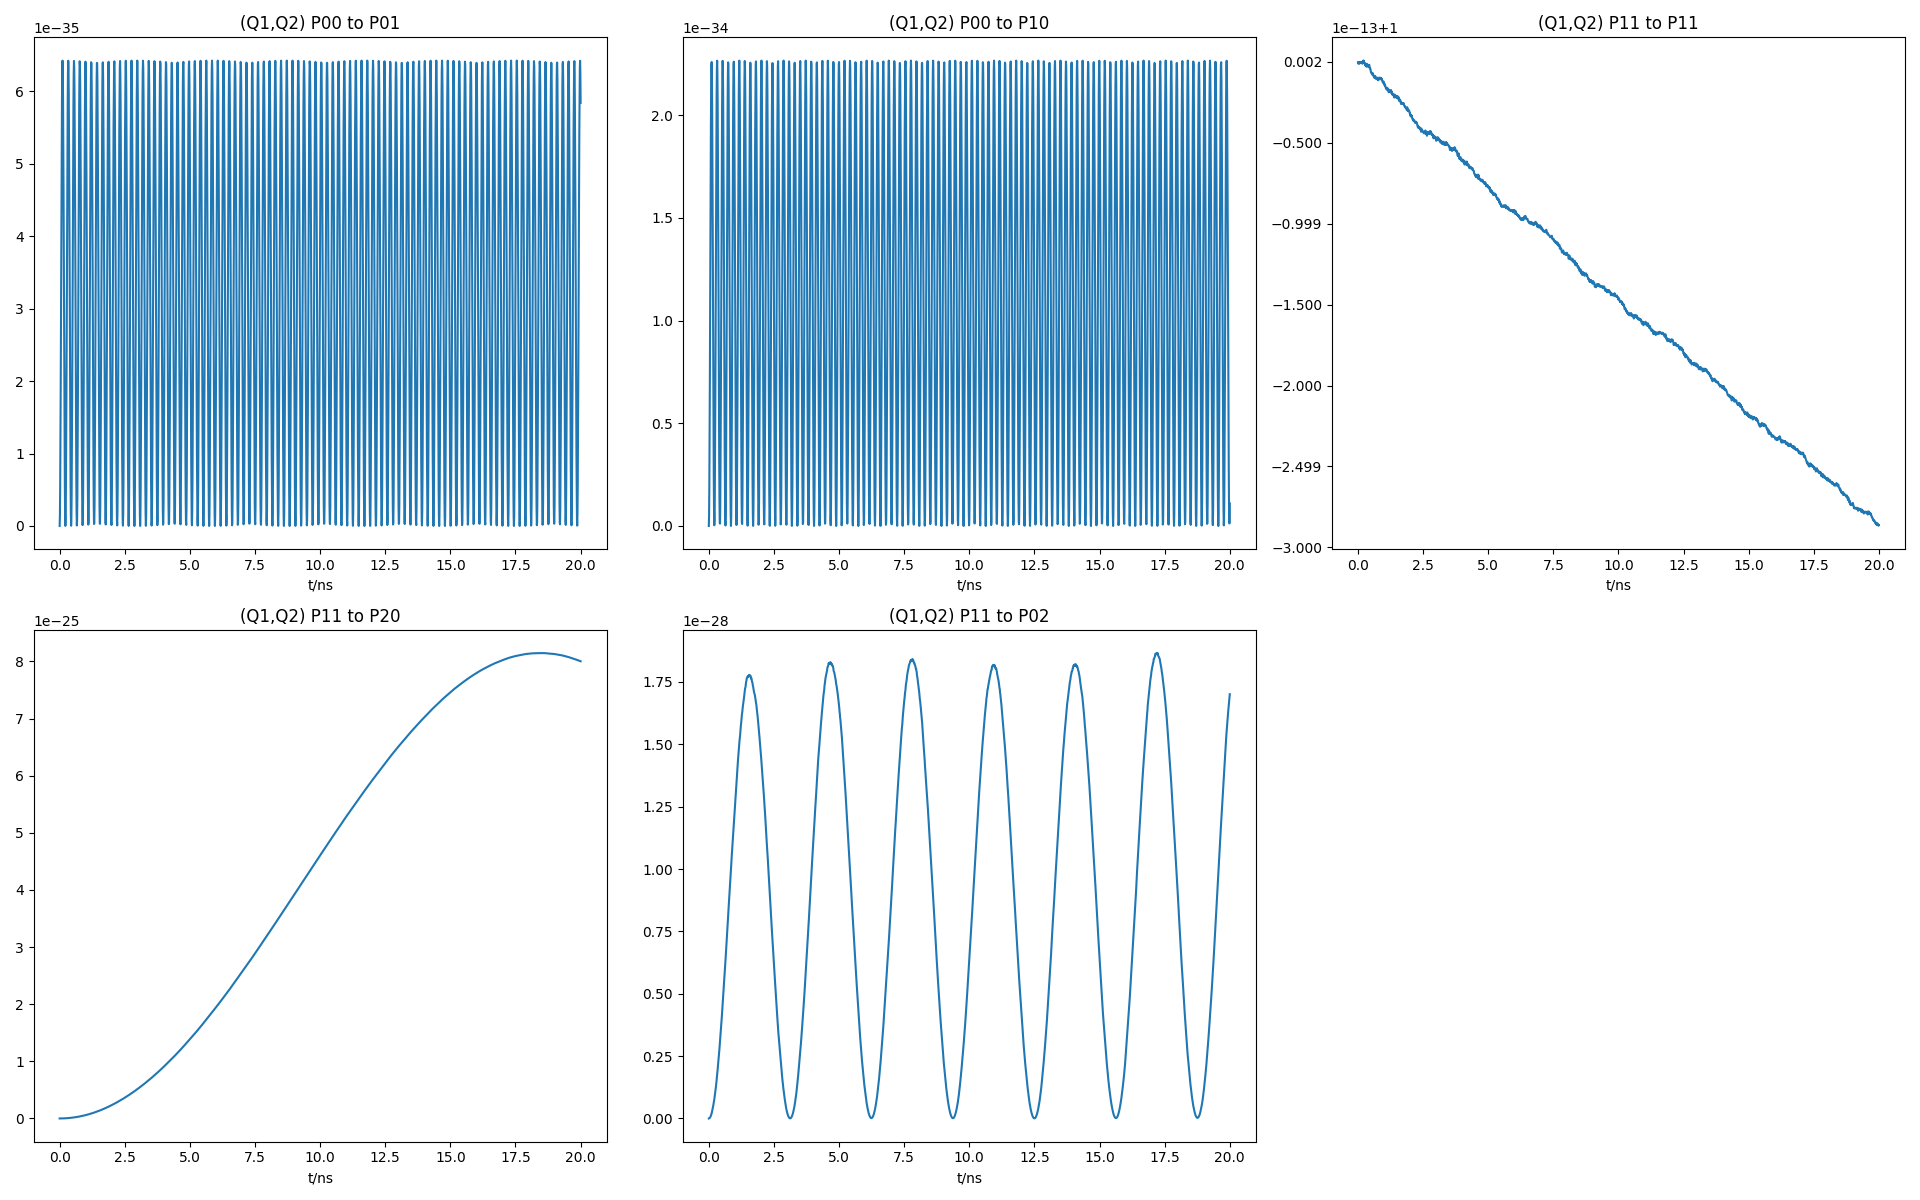
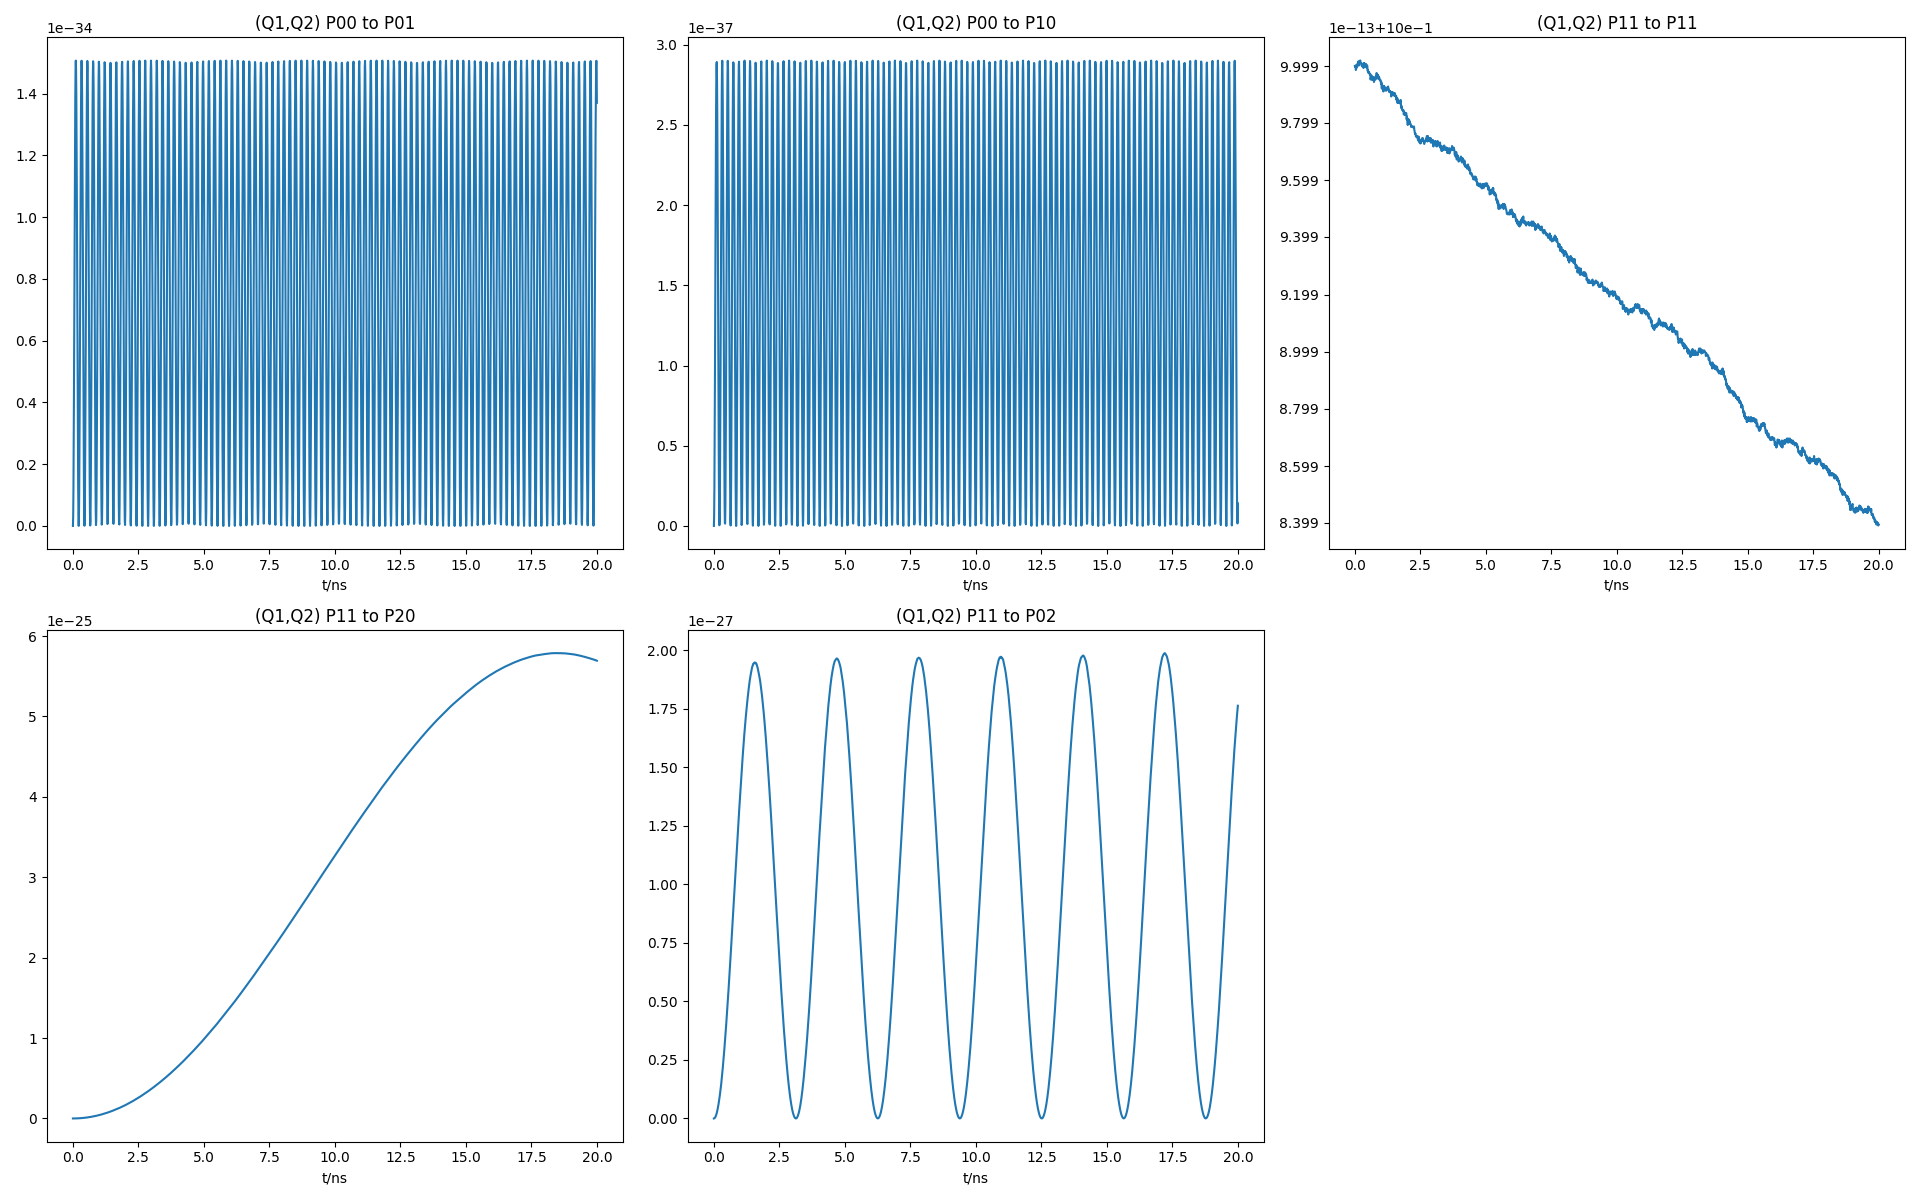
1.0

diff --git a/X2PQ1_X2PQ2.py b/X2PQ1_X2PQ2.py
@@ -1,7 +1,5 @@
 import numpy as np
 import QubitSim.model
-import QubitSim.constant as ct
-from matplotlib import pyplot as plt
 
 # 0.Build a quantum circuit.
 circuit = QubitSim.model.Circuit()
@@ -77,59 +75,17 @@ circuit.t_piece = 1E-11
 circuit.operator_order_num = 4
 circuit.trigonometric_function_expand_order_num = 8
 circuit.exponent_function_expand_order_num = 15
-circuit.picture_filename = "idleQ1_X2PQ2.png"
-circuit.npy_filename = "idleQ1_X2PQ2.npy"
+circuit.picture_filename = "X2PQ1_X2PQ2.png"
+circuit.npy_filename = "X2PQ1_X2PQ2.npy"
 circuit.initial()
 # ====================================================================
 # 2.Setting signals.
-Amplitude = 0.0038
+Amplitude1 = 0.00365
+Amplitude2 = 0.00380
+f01_Q1 = 4.7035E9
 f01_Q2 = 4.5299E9
-t_delay = 0E-9
-Envolope = np.zeros(len(circuit.t_list))
-phi = np.pi-0.3356
-for i in range(len(circuit.t_list)):
-    if circuit.t_list[i] < t_delay:
-        Envolope[i] = 0.0
-    else:
-        Envolope[i] = 1-np.cos(2*np.pi*(circuit.t_list[i] -
-                               t_delay)/(circuit.t_end-t_delay-circuit.t_start))
-circuit.signal_2 = Amplitude*Envolope*np.cos(2*np.pi*f01_Q2*circuit.t_list+phi)
-plt.figure()
-plt.plot(circuit.t_list*1E9, circuit.signal_2)
-plt.title("signal_2")
-plt.xlabel("t/ns")
-plt.tight_layout()
-plt.savefig(fname="idleQ1_X2PQ2_signal.png")
+Envolope = 1-np.cos(2*np.pi*circuit.t_list/(circuit.t_end-circuit.t_start))
+circuit.signal_1 = Amplitude1*Envolope*np.cos(2*np.pi*f01_Q1*circuit.t_list)
+circuit.signal_2 = Amplitude2*Envolope*np.cos(2*np.pi*f01_Q2*circuit.t_list)
 # 3.Run.
 circuit.run()
-# 4.Matrix display
-idleQ1_X2PQ2_matrix = np.load(circuit.npy_filename)
-print("\nidleQ1_X2PQ2_matrix:")
-for i in range(4):
-    for j in range(4):
-        print("%.4f" % np.abs(idleQ1_X2PQ2_matrix[i][j]), end='_')
-        print("%.4f" % np.angle(idleQ1_X2PQ2_matrix[i][j]), end=',')
-    print()
-
-X2PQ2_matrix = np.zeros([2, 2], dtype=complex)
-X2PQ2_matrix[0][0] = idleQ1_X2PQ2_matrix[0][0]
-X2PQ2_matrix[0][1] = idleQ1_X2PQ2_matrix[0][1]
-X2PQ2_matrix[1][0] = idleQ1_X2PQ2_matrix[1][0]
-X2PQ2_matrix[1][1] = idleQ1_X2PQ2_matrix[1][1]
-print("\nX2PQ2_matrix:")
-print(X2PQ2_matrix)
-
-theta_g = (np.angle(X2PQ2_matrix[0][0])+np.angle(X2PQ2_matrix[1][1]))/2.0
-phi = 2*np.arccos(np.real(X2PQ2_matrix[0][0]/np.exp(complex(0, 1)*theta_g)))
-nx = np.imag(X2PQ2_matrix[0][1] /
-             np.exp(complex(0, 1)*theta_g))/(-1)/np.sin(phi/2)
-ny = np.real(X2PQ2_matrix[0][1] /
-             np.exp(complex(0, 1)*theta_g))/(-1)/np.sin(phi/2)
-nz = np.imag(X2PQ2_matrix[0][0] /
-             np.exp(complex(0, 1)*theta_g))/(-1)/np.sin(phi/2)
-print("\ntheta_g=%.4f" % theta_g)
-print("phi=%.4f" % phi)
-print("nx=%.4f" % nx)
-print("ny=%.4f" % ny)
-print("nz=%.4f" % nz)
-

diff --git a/example/X2PQ1_idleQ2/X2PQ1_idleQ2.py b/example/X2PQ1_idleQ2/X2PQ1_idleQ2.py
@@ -1,5 +1,7 @@
 import numpy as np
 import QubitSim.model
+import QubitSim.constant as ct
+from matplotlib import pyplot as plt
 
 # 0.Build a quantum circuit.
 circuit = QubitSim.model.Circuit()
@@ -70,7 +72,7 @@ circuit.M_x_3 = 1E-12
 # picture_filename: Filename of picture to be drawed.
 # npy_filename: Filename of subspace quantum gate.
 circuit.t_start = 0
-circuit.t_end = 20E-9
+circuit.t_end = 20E-9+0E-9
 circuit.t_piece = 1E-11
 circuit.operator_order_num = 4
 circuit.trigonometric_function_expand_order_num = 8
@@ -82,7 +84,51 @@ circuit.initial()
 # 2.Setting signals.
 Amplitude = 0.00365
 f01_Q1 = 4.7035E9
-Envolope = 1-np.cos(2*np.pi*circuit.t_list/(circuit.t_end-circuit.t_start))
-circuit.signal_1 = Amplitude*Envolope*np.cos(2*np.pi*f01_Q1*circuit.t_list)
+t_delay = 0E-9
+Envolope = np.zeros(len(circuit.t_list))
+phi = np.pi-0.3356
+for i in range(len(circuit.t_list)):
+    if circuit.t_list[i] < t_delay:
+        Envolope[i] = 0.0
+    else:
+        Envolope[i] = 1-np.cos(2*np.pi*(circuit.t_list[i] -
+                               t_delay)/(circuit.t_end-t_delay-circuit.t_start))
+circuit.signal_1 = Amplitude*Envolope*np.cos(2*np.pi*f01_Q1*circuit.t_list+phi)
+plt.figure()
+plt.plot(circuit.t_list*1E9, circuit.signal_1)
+plt.title("signal_1")
+plt.xlabel("t/ns")
+plt.tight_layout()
+plt.savefig(fname="X2PQ1_idleQ2_signal.png")
 # 3.Run.
 circuit.run()
+# 4.Matrix display
+X2PQ1_idleQ2_matrix = np.load(circuit.npy_filename)
+print("\nX2PQ1_idleQ2_matrix:")
+for i in range(4):
+    for j in range(4):
+        print("%.4f" % np.abs(X2PQ1_idleQ2_matrix[i][j]), end='_')
+        print("%.4f" % np.angle(X2PQ1_idleQ2_matrix[i][j]), end=',')
+    print()
+
+X2PQ1_matrix = np.zeros([2, 2], dtype=complex)
+X2PQ1_matrix[0][0] = X2PQ1_idleQ2_matrix[0][0]
+X2PQ1_matrix[0][1] = X2PQ1_idleQ2_matrix[0][2]
+X2PQ1_matrix[1][0] = X2PQ1_idleQ2_matrix[2][0]
+X2PQ1_matrix[1][1] = X2PQ1_idleQ2_matrix[2][2]
+print("\nX2PQ1_matrix:")
+print(X2PQ1_matrix)
+
+theta_g = (np.angle(X2PQ1_matrix[0][0])+np.angle(X2PQ1_matrix[1][1]))/2.0
+phi = 2*np.arccos(np.real(X2PQ1_matrix[0][0]/np.exp(complex(0, 1)*theta_g)))
+nx = np.imag(X2PQ1_matrix[0][1] /
+             np.exp(complex(0, 1)*theta_g))/(-1)/np.sin(phi/2)
+ny = np.real(X2PQ1_matrix[0][1] /
+             np.exp(complex(0, 1)*theta_g))/(-1)/np.sin(phi/2)
+nz = np.imag(X2PQ1_matrix[0][0] /
+             np.exp(complex(0, 1)*theta_g))/(-1)/np.sin(phi/2)
+print("\ntheta_g=%.4f" % theta_g)
+print("phi=%.4f" % phi)
+print("nx=%.4f" % nx)
+print("ny=%.4f" % ny)
+print("nz=%.4f" % nz)

diff --git a/example/Y2PQ1_idleQ2/Y2PQ1_idleQ2.py b/example/Y2PQ1_idleQ2/Y2PQ1_idleQ2.py
@@ -77,8 +77,8 @@ circuit.t_piece = 1E-11
 circuit.operator_order_num = 4
 circuit.trigonometric_function_expand_order_num = 8
 circuit.exponent_function_expand_order_num = 15
-circuit.picture_filename = "X2PQ1_idleQ2.png"
-circuit.npy_filename = "X2PQ1_idleQ2.npy"
+circuit.picture_filename = "Y2PQ1_idleQ2.png"
+circuit.npy_filename = "Y2PQ1_idleQ2.npy"
 circuit.initial()
 # ====================================================================
 # 2.Setting signals.
@@ -86,7 +86,7 @@ Amplitude = 0.00365
 f01_Q1 = 4.7035E9
 t_delay = 0E-9
 Envolope = np.zeros(len(circuit.t_list))
-phi=np.pi-0.3356
+phi = np.pi-0.3356-np.pi/2
 for i in range(len(circuit.t_list)):
     if circuit.t_list[i] < t_delay:
         Envolope[i] = 0.0
@@ -95,7 +95,40 @@ for i in range(len(circuit.t_list)):
                                t_delay)/(circuit.t_end-t_delay-circuit.t_start))
 circuit.signal_1 = Amplitude*Envolope*np.cos(2*np.pi*f01_Q1*circuit.t_list+phi)
 plt.figure()
-plt.plot(circuit.signal_1)
-plt.show()
+plt.plot(circuit.t_list*1E9, circuit.signal_1)
+plt.title("signal_1")
+plt.xlabel("t/ns")
+plt.tight_layout()
+plt.savefig(fname="Y2PQ1_idleQ2_signal.png")
 # 3.Run.
 circuit.run()
+# 4.Matrix display
+Y2PQ1_idleQ2_matrix = np.load(circuit.npy_filename)
+print("\nY2PQ1_idleQ2_matrix:")
+for i in range(4):
+    for j in range(4):
+        print("%.4f" % np.abs(Y2PQ1_idleQ2_matrix[i][j]), end='_')
+        print("%.4f" % np.angle(Y2PQ1_idleQ2_matrix[i][j]), end=',')
+    print()
+
+Y2PQ1_matrix = np.zeros([2, 2], dtype=complex)
+Y2PQ1_matrix[0][0] = Y2PQ1_idleQ2_matrix[0][0]
+Y2PQ1_matrix[0][1] = Y2PQ1_idleQ2_matrix[0][2]
+Y2PQ1_matrix[1][0] = Y2PQ1_idleQ2_matrix[2][0]
+Y2PQ1_matrix[1][1] = Y2PQ1_idleQ2_matrix[2][2]
+print("\nY2PQ1_matrix:")
+print(Y2PQ1_matrix)
+
+theta_g = (np.angle(Y2PQ1_matrix[0][0])+np.angle(Y2PQ1_matrix[1][1]))/2.0
+phi = 2*np.arccos(np.real(Y2PQ1_matrix[0][0]/np.exp(complex(0, 1)*theta_g)))
+nx = np.imag(Y2PQ1_matrix[0][1] /
+             np.exp(complex(0, 1)*theta_g))/(-1)/np.sin(phi/2)
+ny = np.real(Y2PQ1_matrix[0][1] /
+             np.exp(complex(0, 1)*theta_g))/(-1)/np.sin(phi/2)
+nz = np.imag(Y2PQ1_matrix[0][0] /
+             np.exp(complex(0, 1)*theta_g))/(-1)/np.sin(phi/2)
+print("\ntheta_g=%.4f" % theta_g)
+print("phi=%.4f" % phi)
+print("nx=%.4f" % nx)
+print("ny=%.4f" % ny)
+print("nz=%.4f" % nz)

diff --git a/example/idleQ1_idleQ2/idleQ1_idleQ2.py b/example/idleQ1_idleQ2/idleQ1_idleQ2.py
@@ -82,3 +82,11 @@ circuit.initial()
 # 2.Setting signals.
 # 3.Run.
 circuit.run()
+# 4.Matrix display
+idleQ1_idleQ2_matrix = np.load(circuit.npy_filename)
+print("\nidleQ1_idleQ2_matrix:")
+for i in range(4):
+    for j in range(4):
+        print("%.4f" % np.abs(idleQ1_idleQ2_matrix[i][j]), end='_')
+        print("%.4f" % np.angle(idleQ1_idleQ2_matrix[i][j]), end=',')
+    print()
